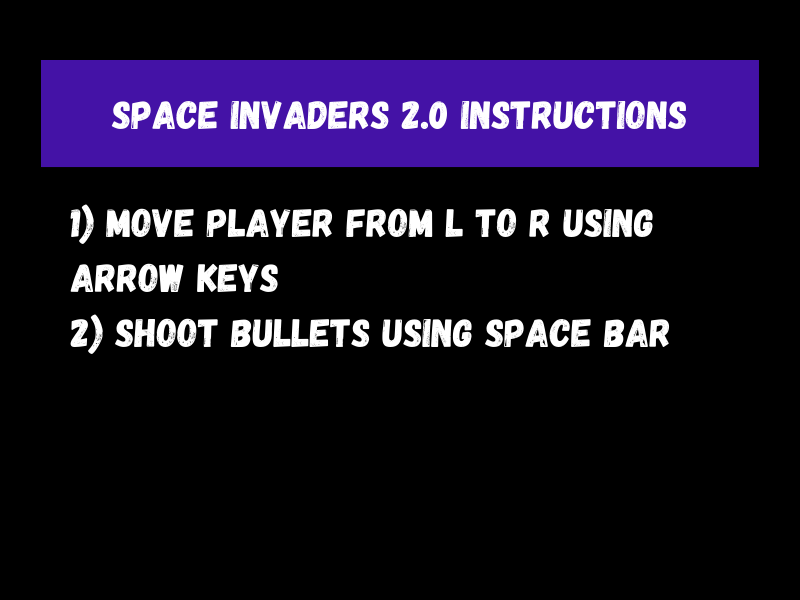
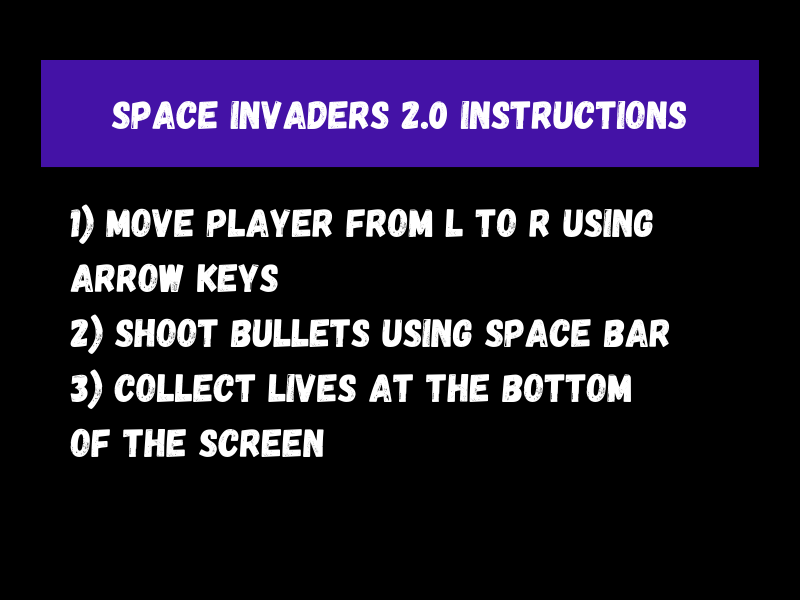
final

Changed region(s): [[0.0625, 0.6, 0.8125, 0.78]]

diff --git a/src/App.java b/src/App.java
@@ -10,7 +10,7 @@ public class App extends PApplet {
     boolean right; // keeps track if right arrow key was pressed
     boolean space; // keeps track if space bar is pressed
     Bubble firstOne;
-    Player player; 
+    Player player;
     PImage lives; // heart photo
     PImage play; // photo with play screen
     PImage home; // photo with home button
@@ -26,7 +26,7 @@ public class App extends PApplet {
     int xPosition = 385;
     int lastTimeShot = 0; // how many milliseconds ago was the last bullet shot
     int cooldown = 300; // milliseconds between bullets being shot
-    int life = 3;
+    int life = 0;
     int score = 0;
     int frames = 120;
     int speedupTimer = 0;
@@ -64,16 +64,16 @@ public class App extends PApplet {
         }
 
         if (scene == 1) {
-           sceneOne(); // everything used for scene 1 (the main game)
+            sceneOne(); // everything used for scene 1 (the main game)
         }
 
         if (scene == 3) { // ending scene (game over)
-            fill(60, 10, 166);
-            text("Game Over", 340, 100);
+            fill(129, 71, 255);
+            text("Game Over", 320, 150);
             textSize(40);
-            text("Score: " + score, 340, 200);
-            text("High Score: " + highScore, 290, 300);
-            text("Press enter to play again", 200, 400);
+            text("Score: " + score, 340, 250);
+            text("High Score: " + highScore, 290, 350);
+            text("Press enter to play again", 200, 450);
         }
 
         if (scene == 2) { // instructions page
@@ -95,7 +95,8 @@ public class App extends PApplet {
 
             if (keyCode == ' ') { // bullets will shoot
 
-                if (millis() - lastTimeShot >= cooldown) { // used from chat gpt if time minus last time is more than cooldown time then..
+                if (millis() - lastTimeShot >= cooldown) { // used from chat gpt if time minus last time is more than
+                                                           // cooldown time then..
                     lastTimeShot = millis(); // resets last shot time
                     bulletMaker(); // makes a bullet
                 }
@@ -113,7 +114,7 @@ public class App extends PApplet {
 
     }
 
-    public void sceneOne(){
+    public void sceneOne() {
         collision(); // method detecting collision
         bubbleShower(); // shows the bubbles
         bulletShower(); // showws the bullets
@@ -123,7 +124,7 @@ public class App extends PApplet {
         text("Score: " + score, 20, 20);
 
         speedUpLogic(); // speeds up how many bubbles fall
-        printSpeedUp();  // writes text saying "speed up"
+        printSpeedUp(); // writes text saying "speed up"
 
         lives();
 
@@ -162,9 +163,9 @@ public class App extends PApplet {
 
     }
 
-    public void bulletMaker() { //makes bullet
+    public void bulletMaker() { // makes bullet
         Bullet bullet = new Bullet(player.getX() + 20, 550, 5, this);
-        bullets.add(bullet); 
+        bullets.add(bullet);
     }
 
     public void mousePressed() {
@@ -189,14 +190,14 @@ public class App extends PApplet {
 
     public void collision() {
 
-        for (int i = 0; i < bubbles.size(); i++) { // chat gpt helped with collision
+        for (int i = 0; i < bubbles.size(); i++) { // chat gpt helped with collision looks thru bubbles
             Bubble b = bubbles.get(i);
-            for (int j = 0; j < bullets.size(); j++) {
+            for (int j = 0; j < bullets.size(); j++) { // looks thru bullets
                 Bullet bul = bullets.get(j);
-                if (bul.touch(b.getX(), b.getY())) {
-                    bubbles.remove(i);
+                if (bul.touch(b.getX(), b.getY())) { // if these touch then
+                    bubbles.remove(i); // remove bubble and bullet
                     bullets.remove(j);
-                    score += 10;
+                    score += 10; // increase score
                 }
 
             }
@@ -204,26 +205,26 @@ public class App extends PApplet {
 
     }
 
-    public void bubbleShower() {
+    public void bubbleShower() { // shows bubbles
         for (int i = 0; i < bubbles.size(); i++) {
             Bubble b = bubbles.get(i);
             b.display();
             b.update();
-            if (b.outOfBounds()) {
+            if (b.outOfBounds()) { // if off screen removes
                 bubbles.remove(i);
-                life--;
+                life--; // removes a life
             }
 
         }
     }
 
-    public void bulletShower() {
+    public void bulletShower() { // shows bullets
         for (int i = 0; i < bullets.size(); i++) {
-            Bullet b = bullets.get(i);
+            Bullet b = bullets.get(i); // for bullet b update it
             b.update();
 
             if (b.getY() < 30) {
-                bullets.remove(i);
+                bullets.remove(i); // remove bullet if reaches almost top of the screen
             }
 
         }
@@ -231,44 +232,44 @@ public class App extends PApplet {
     }
 
     public void lives() {
-        if (life == 3) {
+        if (life == 3) { // shows 3 lives images
             image(lives, 650, 30, 20, 20);
             image(lives, 690, 30, 20, 20);
             image(lives, 730, 30, 20, 20);
 
         }
 
-        if (life == 2) {
+        if (life == 2) { // shows 2 lives images
             image(lives, 650, 30, 20, 20);
             image(lives, 690, 30, 20, 20);
-            if (frameCount % 600 == 0) {
+            if (frameCount % 600 == 0) { // will make a live image and drop it down a live every 10 seconds
                 lifeMaker();
             }
             dropLifes();
 
         }
 
-        if (life == 1) {
+        if (life == 1) { // shows 1 live image
             image(lives, 650, 30, 20, 20);
 
-            if (frameCount % 200 == 0) { // drops a life every 15 seconds
+            if (frameCount % 600 == 0) { // makes a life every 10 seconds
                 lifeMaker();
             }
-            dropLifes();
+            dropLifes(); // drops the life down the screen
 
         }
 
         if (life == 0) {
-            scene = 3;
-            reading();
+            scene = 3; // game over screen
+            reading(); // reads high score
             if (score > highScore) {
                 highScore = score;
-                writing();
+                writing(); // if new high score write it in the file
             }
         }
     }
 
-    public void resetGame() {
+    public void resetGame() { // resets the game making it playable again
         frames = 120;
         life = 3;
         score = 0;
@@ -303,22 +304,21 @@ public class App extends PApplet {
     }
 
     public void speedUpLogic() {
-        if (score % 100 == 0 && score > 0 && changeFrame) {
-            frames = max(20, frames - 10); // from chat gpt
-            changeFrame = false;
-            speedupTimer = 60;
-            System.out.println(frames);
+        if (score % 100 == 0 && score > 0 && changeFrame) { // will speed up if score is a multiple of 100
+            frames = max(20, frames - 10); // from chat gpt but decreases the frames by 10
+            changeFrame = false; // sets boolean to false
+            speedupTimer = 60; // shows message for one second and resets the timer
         } else if (score % 100 != 0) {
             changeFrame = true;
         }
     }
 
-    public void printSpeedUp() {
+    public void printSpeedUp() { // prints the text 'speed up'
         if (speedupTimer > 0) {
             textSize(30);
             fill(255);
             text("SPEED UP", 300, 300);
-            speedupTimer--;
+            speedupTimer--; // decreases the timer
         }
     }
 
@@ -338,3 +338,5 @@ public class App extends PApplet {
         }
     }
 }
+
+//
